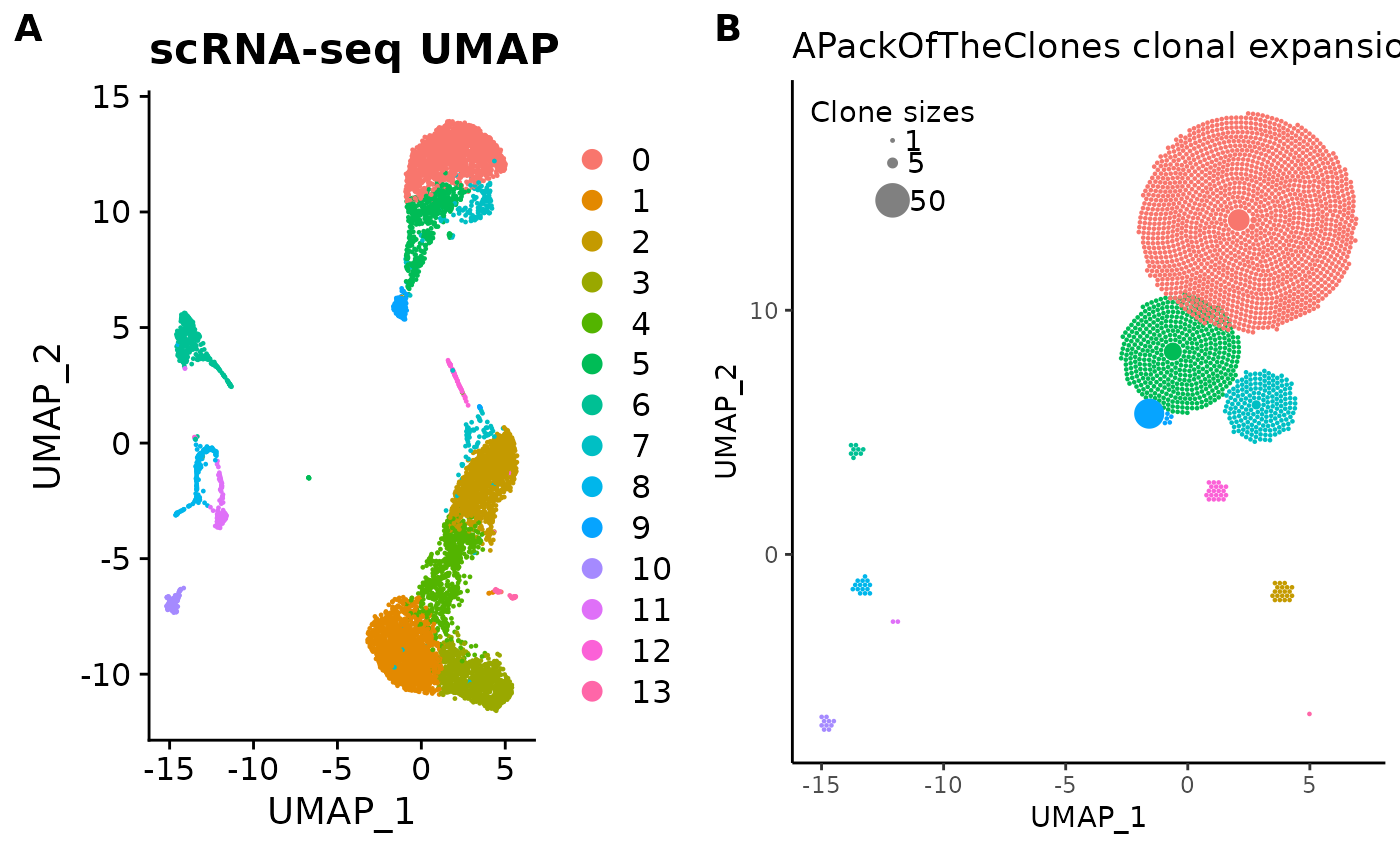
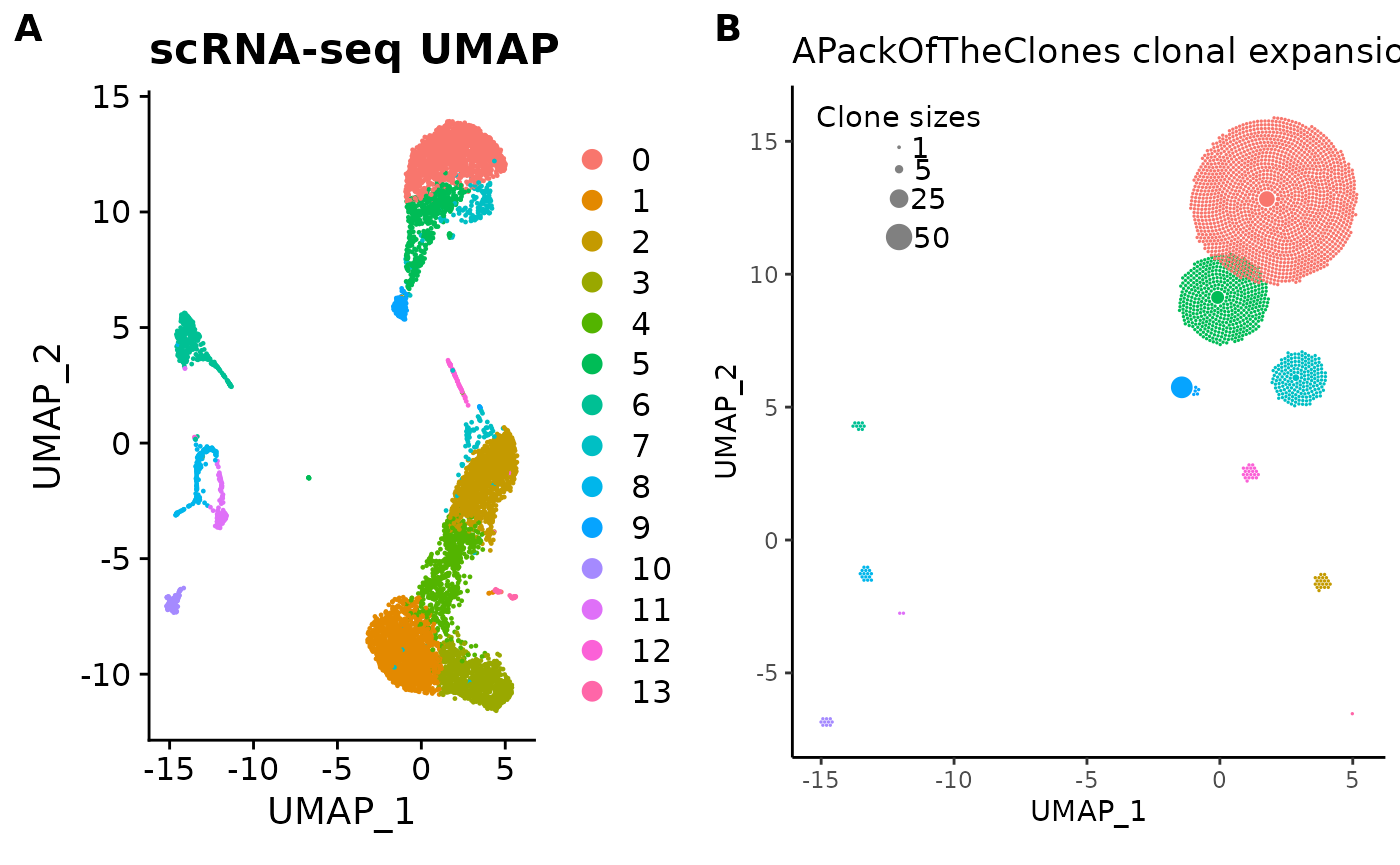
Deploying to gh-pages from @ Qile0317/APackOfTheClones@159731b0cea3bad2329265eb5a29e4f5b2873b67 🚀

diff --git a/articles/Clonal_expansion_plotting.html b/articles/Clonal_expansion_plotting.html
@@ -714,35 +714,115 @@ an argument specifying the vertical distance between circles in the
 legend.</p>
 <div class="sourceCode" id="cb14"><pre class="downlit sourceCode r">
 <code class="sourceCode R"><span><span class="co"># the previous arguments have to be maintained!</span></span>
-<span><span class="va">pbmc_expansion_plot</span> <span class="op">&lt;-</span> <span class="fu"><a href="../reference/clonal_expansion_plot.html">clonal_expansion_plot</a></span><span class="op">(</span><span class="va">pbmc</span>, legend_buffer <span class="op">=</span> <span class="fl">3</span>, legend_spacing <span class="op">=</span> <span class="fl">0.6</span>, repulse <span class="op">=</span> <span class="cn">TRUE</span>, verbose <span class="op">=</span> <span class="cn">FALSE</span><span class="op">)</span></span>
+<span><span class="va">pbmc_expansion_plot</span> <span class="op">&lt;-</span> <span class="fu"><a href="../reference/clonal_expansion_plot.html">clonal_expansion_plot</a></span><span class="op">(</span></span>
+<span>  <span class="va">pbmc</span>,</span>
+<span>  legend_buffer <span class="op">=</span> <span class="fl">3</span>,</span>
+<span>  legend_spacing <span class="op">=</span> <span class="fl">0.6</span>,</span>
+<span>  repulse <span class="op">=</span> <span class="cn">TRUE</span>,</span>
+<span>  verbose <span class="op">=</span> <span class="cn">FALSE</span></span>
+<span><span class="op">)</span></span>
 <span><span class="va">pbmc_expansion_plot</span></span></code></pre></div>
-<p><img src="Clonal_expansion_plotting_files/figure-html/adj_legend-1.png" width="700"></p>
-<p><em>unfinished</em></p>
+<p><img src="Clonal_expansion_plotting_files/figure-html/adj_legend-1.png" width="700">
+We can even change the circle (clone) sizes displayed in the legend by
+changing the vector <code>legend_sizes</code>:</p>
+<div class="sourceCode" id="cb15"><pre class="downlit sourceCode r">
+<code class="sourceCode R"><span><span class="va">pbmc_expansion_plot</span> <span class="op">&lt;-</span> <span class="fu"><a href="../reference/clonal_expansion_plot.html">clonal_expansion_plot</a></span><span class="op">(</span></span>
+<span>  <span class="va">pbmc</span>,</span>
+<span>  legend_sizes <span class="op">=</span> <span class="fu"><a href="https://rdrr.io/r/base/c.html" class="external-link">c</a></span><span class="op">(</span><span class="fl">1</span>, <span class="fl">5</span>, <span class="fl">25</span>, <span class="fl">50</span><span class="op">)</span>,</span>
+<span>  legend_buffer <span class="op">=</span> <span class="fl">3</span>,</span>
+<span>  legend_spacing <span class="op">=</span> <span class="fl">0.6</span>,</span>
+<span>  repulse <span class="op">=</span> <span class="cn">TRUE</span>,</span>
+<span>  verbose <span class="op">=</span> <span class="cn">FALSE</span></span>
+<span><span class="op">)</span></span>
+<span><span class="va">pbmc_expansion_plot</span></span></code></pre></div>
+<p><img src="Clonal_expansion_plotting_files/figure-html/adj_legend_sizes-1.png" width="700"></p>
+<p>More details about these arguments can be read in the function
+documentation.</p>
 </div>
 <div class="section level3">
 <h3 id="adjusting-and-customizing-circle-size-and-scaling">Adjusting and customizing circle size and scaling<a class="anchor" aria-label="anchor" href="#adjusting-and-customizing-circle-size-and-scaling"></a>
 </h3>
-<p><em>unfinished</em></p>
+<p>So far, the sizes of the individual circles (clones) have seemed to
+look quite pleasant, fitting roughly into their UMAP cluster centroids
+snugly. However, this may not always be the case. A likely very common
+issue upon the initialization of the plot with default arguments is that
+the circles may be too small or too large.</p>
+<p>In these cases, the argument <code>clone_scale_factor</code> should
+be changed. The argument defaults to 0.1, which is the multiplicative
+scale factor for the square root radius of a clone. So if a clone size
+is four, and the factor is 0.1, then the actual radius of the circle on
+the plot would be <code>sqrt(4) * 0.1</code> which equates to 0.2.</p>
+<p>Additionally, <code>rad_scale_factor</code> can optionally be changed
+to adjust the intra-circular spacing. The factor defaults to 0.95 and
+indicates the multiplicative amount to adjust the radius of the circles
+after they have been placed. decreasing this value (slightly) will
+basically make each circle smaller in place, inceasing the spacing
+between then,</p>
+<p>For demonstration sake, we’ll change the
+<code>clone_scale_factor</code> to 0.07 and
+<code>rad_scale_factor</code> to 0.9:</p>
+<div class="sourceCode" id="cb16"><pre class="downlit sourceCode r">
+<code class="sourceCode R"><span><span class="va">pbmc_expansion_plot</span> <span class="op">&lt;-</span> <span class="fu"><a href="../reference/clonal_expansion_plot.html">clonal_expansion_plot</a></span><span class="op">(</span></span>
+<span>  <span class="va">pbmc</span>,</span>
+<span>  clone_scale_factor <span class="op">=</span> <span class="fl">0.07</span>,</span>
+<span>  rad_scale_factor <span class="op">=</span> <span class="fl">0.9</span>,</span>
+<span>  legend_sizes <span class="op">=</span> <span class="fu"><a href="https://rdrr.io/r/base/c.html" class="external-link">c</a></span><span class="op">(</span><span class="fl">1</span>, <span class="fl">5</span>, <span class="fl">25</span>, <span class="fl">50</span><span class="op">)</span>,</span>
+<span>  legend_buffer <span class="op">=</span> <span class="fl">3</span>,</span>
+<span>  legend_spacing <span class="op">=</span> <span class="fl">0.6</span>,</span>
+<span>  repulse <span class="op">=</span> <span class="cn">TRUE</span>,</span>
+<span>  verbose <span class="op">=</span> <span class="cn">FALSE</span></span>
+<span><span class="op">)</span></span>
+<span><span class="va">pbmc_expansion_plot</span></span></code></pre></div>
+<p><img src="Clonal_expansion_plotting_files/figure-html/scale_fac-1.png" width="700"></p>
 </div>
 <div class="section level3">
-<h3 id="possible-ggplot-based-modifications">Possible ggplot-based modifications<a class="anchor" aria-label="anchor" href="#possible-ggplot-based-modifications"></a>
+<h3 id="other-possible-modifications">Other possible modifications<a class="anchor" aria-label="anchor" href="#other-possible-modifications"></a>
 </h3>
-<p><em>unfinished</em></p>
+<p>There are a few other arguments this vignette did not cover which can
+be read in the function documentation. However, to end off, one more
+important argument to consider is <code>use_default_theme = TRUE</code>.
+It makes the plot have the same axis labels and general theme as the
+original UMAP plot. If this isn’t to your liking or you want to
+customize the plot your own way (since
+<code>clonal_expansion_plot</code> generates a <code>ggplot</code>
+object!), simply set it to <code>FALSE</code> and you’ll have a very
+minimally themed plot:</p>
+<div class="sourceCode" id="cb17"><pre class="downlit sourceCode r">
+<code class="sourceCode R"><span><span class="fu"><a href="../reference/clonal_expansion_plot.html">clonal_expansion_plot</a></span><span class="op">(</span></span>
+<span>  <span class="va">pbmc</span>,</span>
+<span>  use_default_theme <span class="op">=</span> <span class="cn">FALSE</span>,</span>
+<span>  clone_scale_factor <span class="op">=</span> <span class="fl">0.07</span>,</span>
+<span>  rad_scale_factor <span class="op">=</span> <span class="fl">0.9</span>,</span>
+<span>  legend_sizes <span class="op">=</span> <span class="fu"><a href="https://rdrr.io/r/base/c.html" class="external-link">c</a></span><span class="op">(</span><span class="fl">1</span>, <span class="fl">5</span>, <span class="fl">25</span>, <span class="fl">50</span><span class="op">)</span>,</span>
+<span>  legend_buffer <span class="op">=</span> <span class="fl">3</span>,</span>
+<span>  legend_spacing <span class="op">=</span> <span class="fl">0.6</span>,</span>
+<span>  repulse <span class="op">=</span> <span class="cn">TRUE</span>,</span>
+<span>  verbose <span class="op">=</span> <span class="cn">FALSE</span></span>
+<span><span class="op">)</span></span></code></pre></div>
+<p><img src="Clonal_expansion_plotting_files/figure-html/blankplt-1.png" width="700"></p>
+<p>Additionally, if you really want the plot to reflect the original
+UMAP plot, you could try using <code>ggplot2</code>’s <code>xlim</code>
+and <code>ylim</code> functions.</p>
 </div>
 </div>
 <div class="section level2">
 <h2 id="final-product">Final product<a class="anchor" aria-label="anchor" href="#final-product"></a>
 </h2>
-<div class="sourceCode" id="cb15"><pre class="downlit sourceCode r">
+<p>That’s about it for the most basic functionalities of the clonal
+expansion visualization function. Remember to save the plot first as an
+<code>.svg</code> file for maximal resolution, and it should be
+publication ready.</p>
+<p>For fun, here’s a side-by-side comparison of the UMAP plot and the
+clonal expansion plot:</p>
+<div class="sourceCode" id="cb18"><pre class="downlit sourceCode r">
 <code class="sourceCode R"><span><span class="kw"><a href="https://rdrr.io/r/base/library.html" class="external-link">library</a></span><span class="op">(</span><span class="va"><a href="https://ggplot2.tidyverse.org" class="external-link">ggplot2</a></span><span class="op">)</span></span>
 <span><span class="kw"><a href="https://rdrr.io/r/base/library.html" class="external-link">library</a></span><span class="op">(</span><span class="va"><a href="https://wilkelab.org/cowplot/" class="external-link">cowplot</a></span><span class="op">)</span></span>
 <span></span>
-<span><span class="va">comparison_plot</span> <span class="op">&lt;-</span> <span class="fu">cowplot</span><span class="fu">::</span><span class="fu"><a href="https://wilkelab.org/cowplot/reference/plot_grid.html" class="external-link">plot_grid</a></span><span class="op">(</span><span class="va">umap_plot</span> <span class="op">+</span> <span class="fu"><a href="https://ggplot2.tidyverse.org/reference/labs.html" class="external-link">ggtitle</a></span><span class="op">(</span><span class="st">"scRNA-seq UMAP"</span><span class="op">)</span>,</span>
-<span>                        <span class="va">pbmc_expansion_plot</span> <span class="op">+</span></span>
-<span>                          <span class="fu"><a href="https://ggplot2.tidyverse.org/reference/theme.html" class="external-link">theme</a></span><span class="op">(</span>legend.position <span class="op">=</span> <span class="st">"none"</span><span class="op">)</span> <span class="op">+</span></span>
-<span>                          <span class="fu"><a href="https://ggplot2.tidyverse.org/reference/labs.html" class="external-link">ggtitle</a></span><span class="op">(</span><span class="st">"APackOfTheClones clonal expansion plot"</span><span class="op">)</span>,</span>
-<span>                        labels <span class="op">=</span> <span class="st">"AUTO"</span><span class="op">)</span></span>
-<span><span class="va">comparison_plot</span></span></code></pre></div>
+<span><span class="fu">cowplot</span><span class="fu">::</span><span class="fu"><a href="https://wilkelab.org/cowplot/reference/plot_grid.html" class="external-link">plot_grid</a></span><span class="op">(</span></span>
+<span>  <span class="va">umap_plot</span> <span class="op">+</span> <span class="fu"><a href="https://ggplot2.tidyverse.org/reference/labs.html" class="external-link">ggtitle</a></span><span class="op">(</span><span class="st">"scRNA-seq UMAP"</span><span class="op">)</span>,</span>
+<span>  <span class="va">pbmc_expansion_plot</span> <span class="op">+</span> <span class="fu"><a href="https://ggplot2.tidyverse.org/reference/labs.html" class="external-link">ggtitle</a></span><span class="op">(</span><span class="st">"APackOfTheClones clonal expansion plot"</span><span class="op">)</span>,</span>
+<span>  labels <span class="op">=</span> <span class="st">"AUTO"</span></span>
+<span><span class="op">)</span></span></code></pre></div>
 <p><img src="Clonal_expansion_plotting_files/figure-html/final-1.png" width="700"></p>
 </div>
 <div class="section level2">
@@ -752,7 +832,7 @@ legend.</p>
 you will need to install the data used in this vignette which has been
 compiled in an R package <code>SCIPData</code>. You can do so with the
 following code</p>
-<div class="sourceCode" id="cb16"><pre class="downlit sourceCode r">
+<div class="sourceCode" id="cb19"><pre class="downlit sourceCode r">
 <code class="sourceCode R"><span><span class="co"># install the data package</span></span>
 <span><span class="kw"><a href="https://rdrr.io/r/base/library.html" class="external-link">library</a></span><span class="op">(</span><span class="va"><a href="https://devtools.r-lib.org/" class="external-link">devtools</a></span><span class="op">)</span></span>
 <span><span class="fu">devtools</span><span class="fu">::</span><span class="fu"><a href="https://remotes.r-lib.org/reference/install_github.html" class="external-link">install_github</a></span><span class="op">(</span><span class="st">"Qile0317/SCIPData"</span><span class="op">)</span></span>
@@ -760,7 +840,9 @@ following code</p>
 <span><span class="co"># load the package data directly into R objects in memory</span></span>
 <span><span class="fu"><a href="https://rdrr.io/r/utils/data.html" class="external-link">data</a></span><span class="op">(</span><span class="st">"pbmc"</span><span class="op">)</span></span>
 <span><span class="fu"><a href="https://rdrr.io/r/utils/data.html" class="external-link">data</a></span><span class="op">(</span><span class="st">"tcr_dataframe"</span><span class="op">)</span></span></code></pre></div>
-<p>And the rest of the code can be copied and used accordingly.</p>
+<p>And the rest of the code can be copied and used accordingly. (it’s
+also recommended to set <code>verbose</code> to <code>TRUE</code> for
+personal use)</p>
 </div>
   </main><aside class="col-md-3"><nav id="toc"><h2>On this page</h2>
     </nav></aside>
